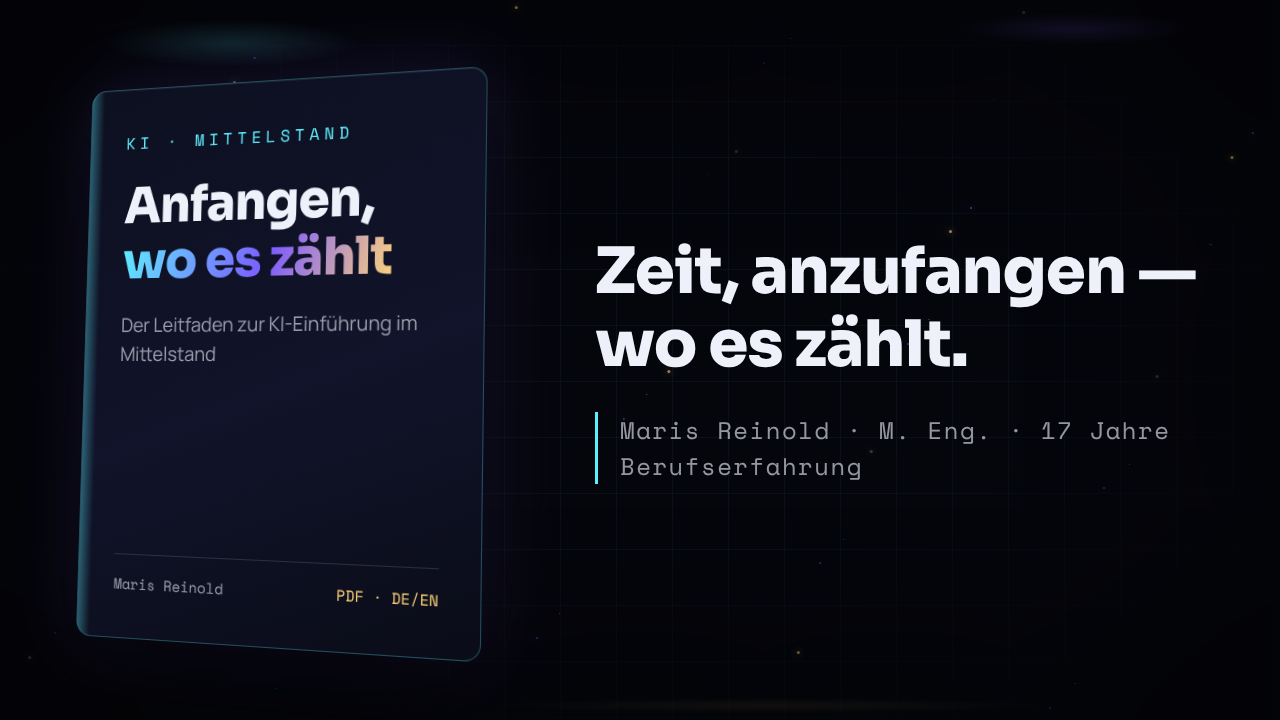
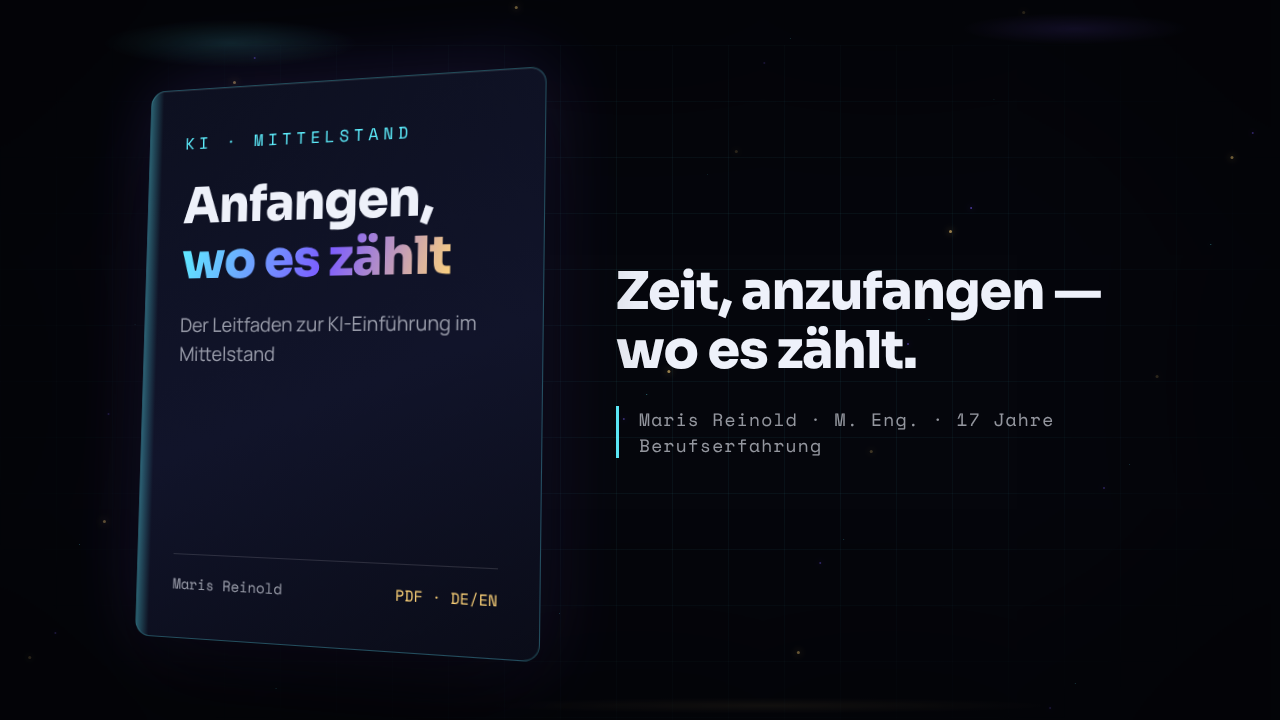
fix: Kauf-Fehlermeldung mit Ursache + GuidePromo-Layout für 1280×720 (#4)
* fix: Kauf-Fehlermeldung zeigt Ursache; GuidePromo-Layout auf 1280x720 angepasst

- guide.html: buyError zeigt die konkrete Server-Fehlermeldung (DE/EN),
  z. B. 'STRIPE_SECRET_KEY is not configured' statt nur 'Hoppla'
- GuidePromo: Stats-Reihe (4x272px statt 4x330px), Kapitel-Roll, Hook und
  CTA fuer das 1280x720-Format dimensioniert — nichts laeuft mehr ueber den Rand

https://claude.ai/code/session_01WGCBjhiYvaM4ydmXu2CeXn

* feat: GuidePromo-Videos und Poster mit korrigiertem Layout neu gerendert

https://claude.ai/code/session_01WGCBjhiYvaM4ydmXu2CeXn

---------

diff --git a/remotion/src/GuidePromo.tsx b/remotion/src/GuidePromo.tsx
@@ -294,14 +294,14 @@ const Stat: React.FC<{
         opacity: s,
         transform: `translateY(${interpolate(s, [0, 1], [36, 0])}px)`,
         textAlign: "center",
-        width: 330,
+        width: 272,
       }}
     >
       <div
         style={{
           fontFamily: SORA,
           fontWeight: 800,
-          fontSize: 120,
+          fontSize: 84,
           letterSpacing: -2,
           ...gradText,
         }}
@@ -311,8 +311,8 @@ const Stat: React.FC<{
       <div
         style={{
           fontFamily: MONO,
-          fontSize: 22,
-          letterSpacing: 2,
+          fontSize: 15,
+          letterSpacing: 1.2,
           color: MUTED,
           textTransform: "uppercase",
           marginTop: 6,
@@ -360,7 +360,7 @@ export const GuidePromo: React.FC<GuidePromoProps> = ({ lang }) => {
 
   /* Scene D — chapter roll */
   const chapOp = fade(frame, CHAP_IN, CHAP_IN + 12, CHAP_OUT - 14, CHAP_OUT);
-  const ROW = 86;
+  const ROW = 70;
   const roll = interpolate(
     frame,
     [CHAP_IN + 8, CHAP_OUT - 10],
@@ -394,11 +394,11 @@ export const GuidePromo: React.FC<GuidePromoProps> = ({ lang }) => {
           <div
             style={{
               fontFamily: MONO,
-              fontSize: 24,
-              letterSpacing: 10,
+              fontSize: 20,
+              letterSpacing: 8,
               color: CYAN,
               textTransform: "uppercase",
-              marginBottom: 30,
+              marginBottom: 26,
               opacity: hook1In,
             }}
           >
@@ -408,7 +408,7 @@ export const GuidePromo: React.FC<GuidePromoProps> = ({ lang }) => {
             style={{
               fontFamily: SORA,
               fontWeight: 800,
-              fontSize: 110,
+              fontSize: 88,
               letterSpacing: -2,
               lineHeight: 1.06,
               opacity: hook1In,
@@ -421,7 +421,7 @@ export const GuidePromo: React.FC<GuidePromoProps> = ({ lang }) => {
             style={{
               fontFamily: SORA,
               fontWeight: 800,
-              fontSize: 110,
+              fontSize: 88,
               letterSpacing: -2,
               lineHeight: 1.06,
               opacity: hook2In,
@@ -440,16 +440,16 @@ export const GuidePromo: React.FC<GuidePromoProps> = ({ lang }) => {
           flexDirection: "row",
           alignItems: "center",
           justifyContent: "center",
-          gap: 110,
+          gap: 72,
         }}
       >
         <BookCover t={t} progress={bookProgress} settleTilt={settleTilt} />
-        <div style={{ opacity: authorOp, maxWidth: 620 }}>
+        <div style={{ opacity: authorOp, maxWidth: 540 }}>
           <div
             style={{
               fontFamily: SORA,
               fontWeight: 800,
-              fontSize: 64,
+              fontSize: 52,
               letterSpacing: -1,
               lineHeight: 1.14,
             }}
@@ -459,12 +459,12 @@ export const GuidePromo: React.FC<GuidePromoProps> = ({ lang }) => {
           <div
             style={{
               fontFamily: MONO,
-              fontSize: 24,
-              letterSpacing: 1.5,
+              fontSize: 18,
+              letterSpacing: 1.2,
               color: MUTED,
-              marginTop: 30,
+              marginTop: 26,
               borderLeft: `3px solid ${CYAN}`,
-              paddingLeft: 22,
+              paddingLeft: 20,
             }}
           >
             {t.author}
@@ -483,7 +483,7 @@ export const GuidePromo: React.FC<GuidePromoProps> = ({ lang }) => {
         <div
           style={{
             display: "flex",
-            gap: 60,
+            gap: 24,
             alignItems: "flex-start",
           }}
         >
@@ -529,18 +529,19 @@ export const GuidePromo: React.FC<GuidePromoProps> = ({ lang }) => {
                     display: "flex",
                     alignItems: "center",
                     justifyContent: "center",
-                    gap: 26,
+                    gap: 20,
                     fontFamily: SORA,
                     fontWeight: center ? 800 : 400,
-                    fontSize: center ? 52 : 38,
+                    fontSize: center ? 40 : 28,
                     color: center ? TEXT : "rgba(238,241,250,.3)",
+                    whiteSpace: "nowrap",
                     transition: "none",
                   }}
                 >
                   <span
                     style={{
                       fontFamily: MONO,
-                      fontSize: 22,
+                      fontSize: 17,
                       color: center ? CYAN : "rgba(94,240,255,.35)",
                     }}
                   >
@@ -566,8 +567,8 @@ export const GuidePromo: React.FC<GuidePromoProps> = ({ lang }) => {
           <div
             style={{
               fontFamily: MONO,
-              fontSize: 26,
-              letterSpacing: 6,
+              fontSize: 20,
+              letterSpacing: 4,
               color: MUTED,
               textTransform: "uppercase",
             }}
@@ -578,9 +579,9 @@ export const GuidePromo: React.FC<GuidePromoProps> = ({ lang }) => {
             style={{
               fontFamily: SORA,
               fontWeight: 800,
-              fontSize: 130,
+              fontSize: 104,
               letterSpacing: -2,
-              marginTop: 18,
+              marginTop: 16,
               transform: `scale(${interpolate(ctaIn, [0, 1], [0.85, 1])})`,
               ...gradText,
               filter: "drop-shadow(0 0 50px rgba(124,92,255,.3))",
@@ -591,10 +592,10 @@ export const GuidePromo: React.FC<GuidePromoProps> = ({ lang }) => {
           <div
             style={{
               fontFamily: MONO,
-              fontSize: 30,
-              letterSpacing: 5,
+              fontSize: 24,
+              letterSpacing: 4,
               color: TEXT,
-              marginTop: 26,
+              marginTop: 22,
               opacity: interpolate(frame, [CTA_IN + 12, CTA_IN + 26], [0, 1], clamp),
             }}
           >

diff --git a/guide.html b/guide.html
@@ -207,7 +207,7 @@
       </div>
     </div>
 
-    <p id="buyError" role="alert" style="display:none;text-align:center;margin-top:18px;color:#ff8a8a;font-size:14px">Hoppla, das hat nicht geklappt. Versuch es bitte nochmal oder schreib mir.</p>
+    <p id="buyError" role="alert" data-msg="Hoppla, das hat nicht geklappt. Versuch es bitte nochmal oder schreib mir." style="display:none;text-align:center;margin-top:18px;color:#ff8a8a;font-size:14px">Hoppla, das hat nicht geklappt. Versuch es bitte nochmal oder schreib mir.</p>
 
     <div class="secure-row reveal">
       <span><svg viewBox="0 0 24 24"><rect x="4" y="10" width="16" height="10" rx="2"/><path d="M8 10V7a4 4 0 0 1 8 0v3"/></svg>Sichere Zahlung über Stripe</span>
@@ -302,12 +302,15 @@
         method: 'POST',
         headers: { 'Content-Type': 'application/json' },
         body: JSON.stringify({ product: btn.dataset.product, lang: lang })
-      }).then(function (r) { return r.json(); }).then(function (d) {
-        if (d && d.url) { location.href = d.url; return; }
-        throw new Error((d && d.error) || 'no url');
-      }).catch(function () {
+      }).then(function (r) { return r.json().then(function (d) { return { ok: r.ok, d: d }; }); }).then(function (x) {
+        if (x.ok && x.d && x.d.url) { location.href = x.d.url; return; }
+        throw new Error((x.d && x.d.error) || 'Unbekannter Fehler');
+      }).catch(function (e) {
         btn.innerHTML = original;
         btn.disabled = !consent.checked;
+        var base = errEl.dataset.msg;
+        if ((window.aiwmLang && window.aiwmLang()) === 'en' && window.AIWM_EN && window.AIWM_EN[base]) base = window.AIWM_EN[base];
+        errEl.textContent = base + (e && e.message ? ' (' + e.message + ')' : '');
         errEl.style.display = 'block';
       });
     });